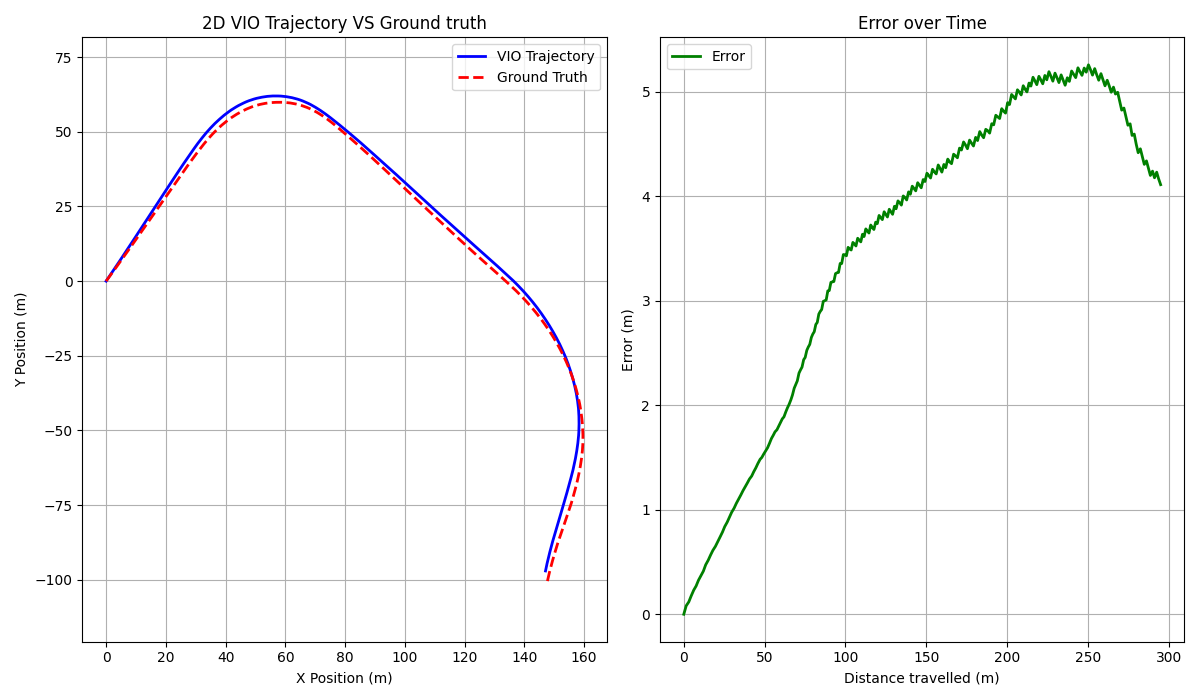
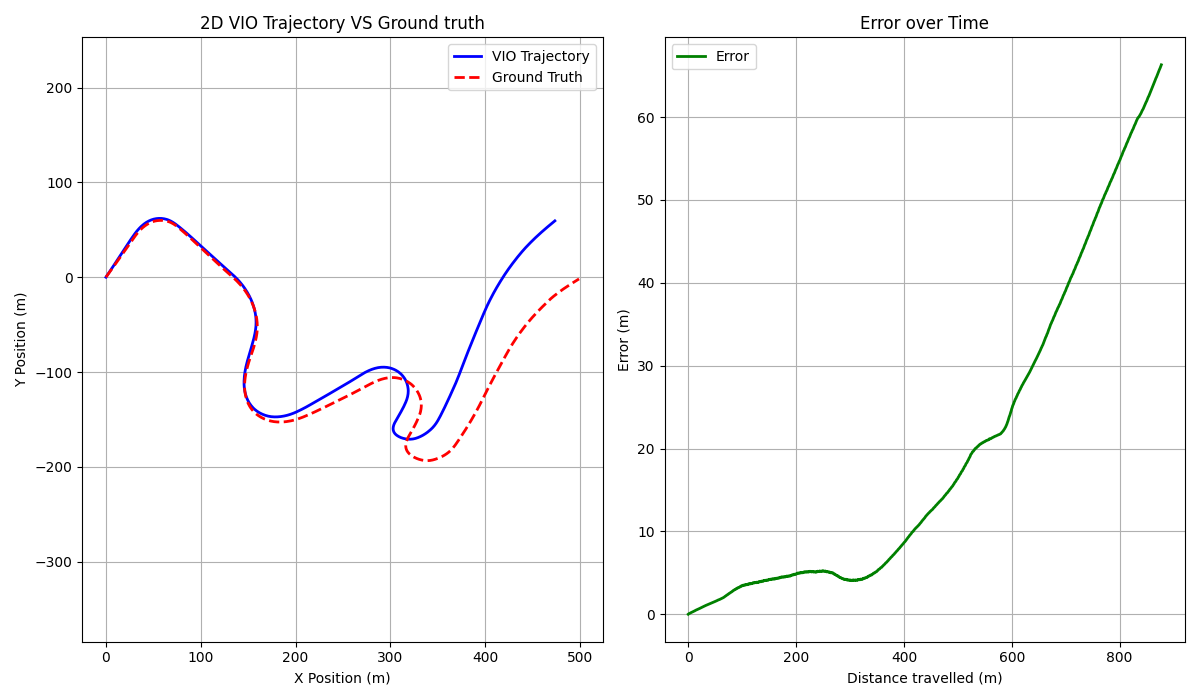
long distance

diff --git a/src/VO_with_IMU.py b/src/VO_with_IMU.py
@@ -19,7 +19,7 @@ folder_number = 34  # Change this to process different folders
 
 
 START_FRAME = 0  # Starting frame index
-MAX_FRAMES_TO_PROCESS = 250  # Limit on number of frames to process
+MAX_FRAMES_TO_PROCESS = 750  # Limit on number of frames to process
 
 ESS_RANSAC_THRESH = 1.0
 MIN_FEATURES_FOR_E = 8

diff --git a/README.md b/README.md
@@ -5,7 +5,8 @@ Create a robust, standalone script [VO_with_IMU.py] and intergration script [imu
 
 # Results
 KITTI dataset
-![VIO trajectory Result Kitti](vio_kitti_sift_w_error.png)
+![VIO trajectory Result Kitti](vio_kitti_sift_w_error1.png)
+![VIO trajectory Result Kitti Long distance](vio_kitti_sift_w_error.png)
 
 
 ## Features
@@ -13,7 +14,6 @@ KITTI dataset
 1.  **Modular Data Loading**:
     *   **KITTI**: Support parsing OXTS text files and timestamps.
     *   **Urbaning**: Support parsing JSON files.
-    *   **KITTI MAT**: (Optional) Support loading from .mat files if needed (from previous code).
 
 2.  **State Estimation (Dead Reckoning)**:
     *   Uses a `State` class to track Position (p), Velocity (v), and Orientation (q).
